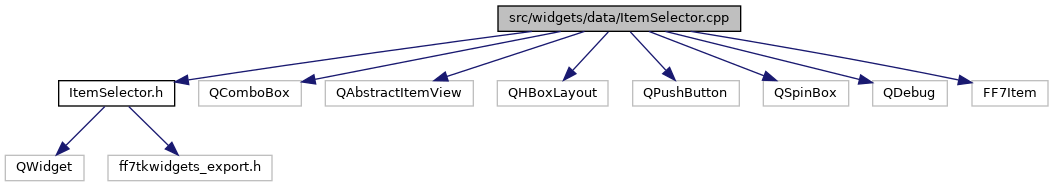
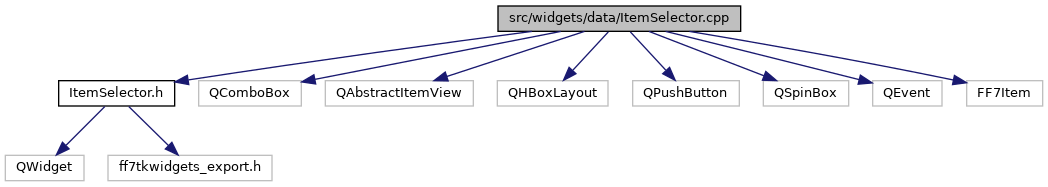
Deploying to gh-pages from @ sithlord48/ff7tk@9ebb03ca0b8e4ca3906b7a3b1b6e31495bd69b64 🚀

diff --git a/ItemSelector_8cpp.html b/ItemSelector_8cpp.html
@@ -77,7 +77,7 @@ $(function() {
 <code>#include &lt;QHBoxLayout&gt;</code><br />
 <code>#include &lt;QPushButton&gt;</code><br />
 <code>#include &lt;QSpinBox&gt;</code><br />
-<code>#include &lt;QDebug&gt;</code><br />
+<code>#include &lt;QEvent&gt;</code><br />
 <code>#include &lt;FF7Item&gt;</code><br />
 </div><div class="textblock"><div class="dynheader">
 Include dependency graph for ItemSelector.cpp:</div>
@@ -91,8 +91,8 @@ Include dependency graph for ItemSelector.cpp:</div>
 <area shape="rect" title=" " alt="" coords="497,80,608,107"/>
 <area shape="rect" title=" " alt="" coords="633,80,739,107"/>
 <area shape="rect" title=" " alt="" coords="763,80,849,107"/>
-<area shape="rect" title=" " alt="" coords="873,80,947,107"/>
-<area shape="rect" title=" " alt="" coords="972,80,1048,107"/>
+<area shape="rect" title=" " alt="" coords="873,80,942,107"/>
+<area shape="rect" title=" " alt="" coords="967,80,1043,107"/>
 <area shape="rect" title=" " alt="" coords="5,155,84,181"/>
 <area shape="rect" title=" " alt="" coords="108,155,272,181"/>
 </map>
